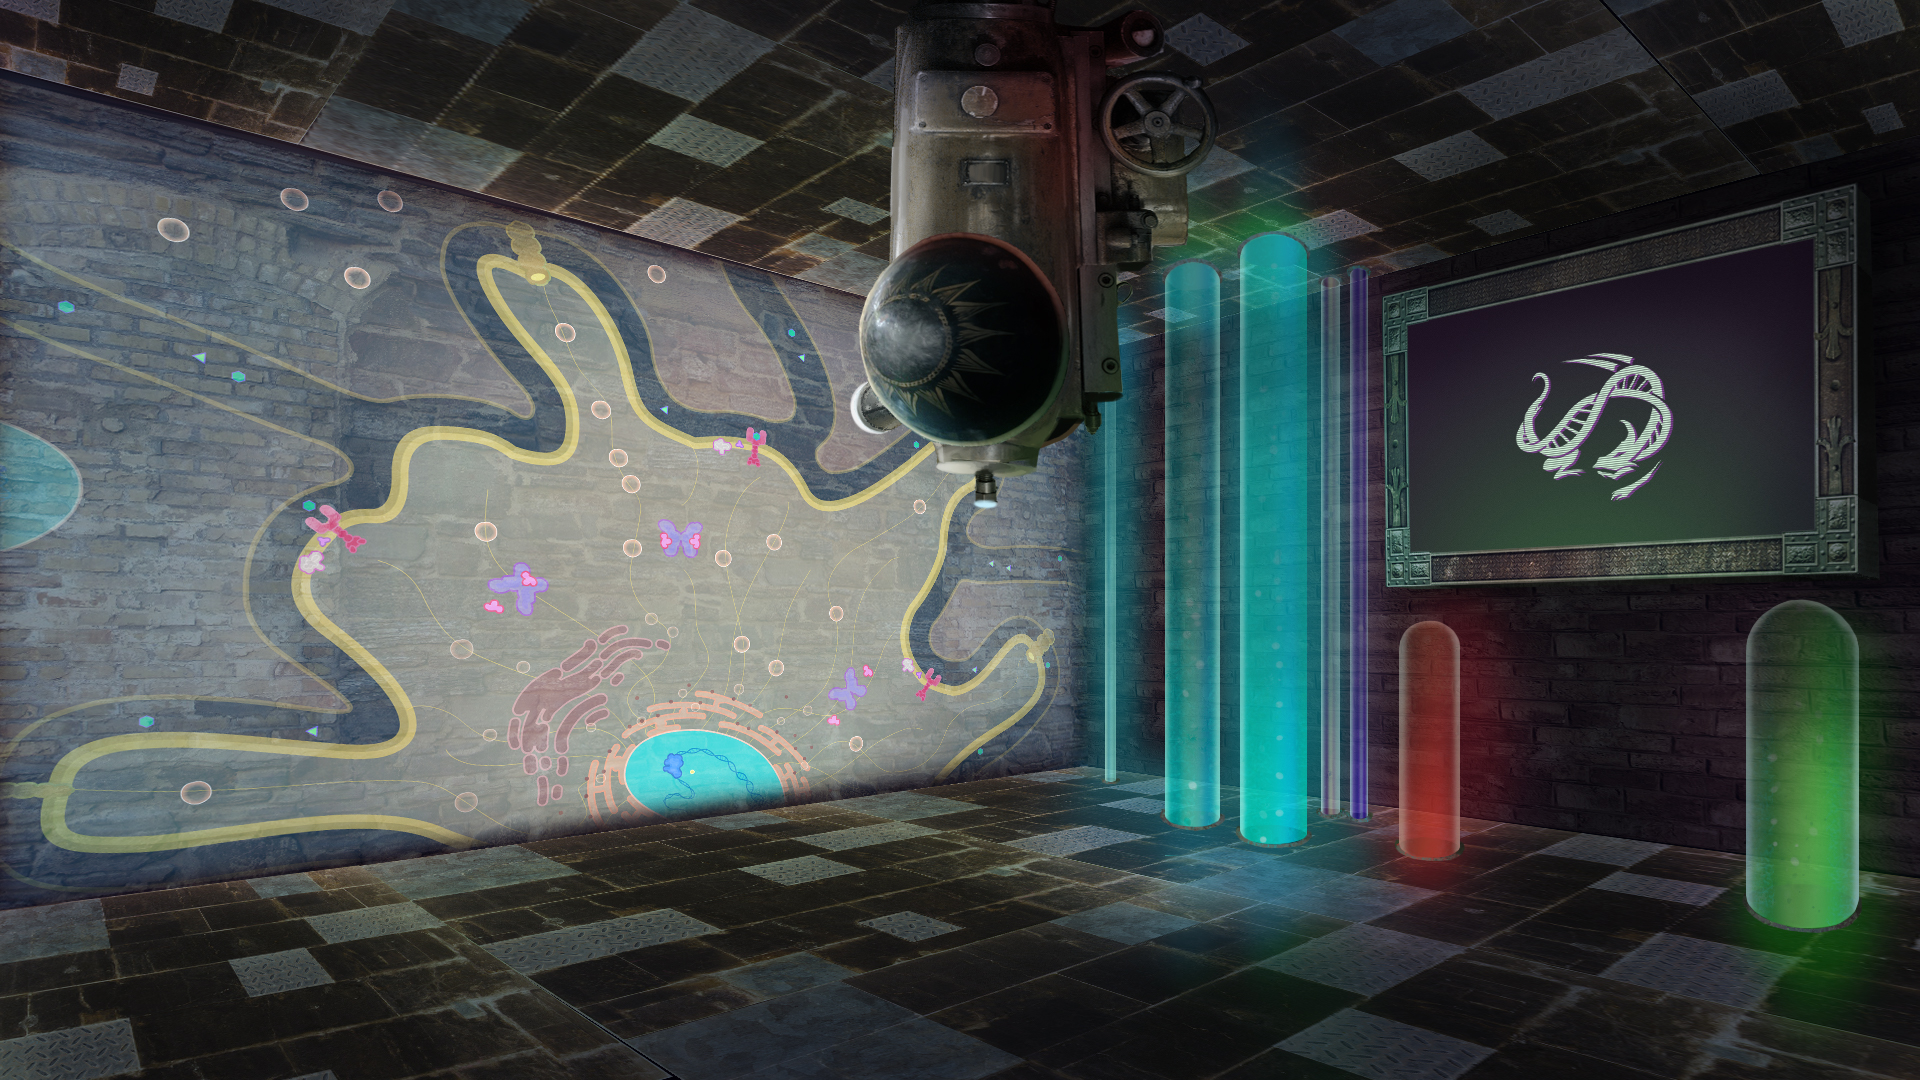
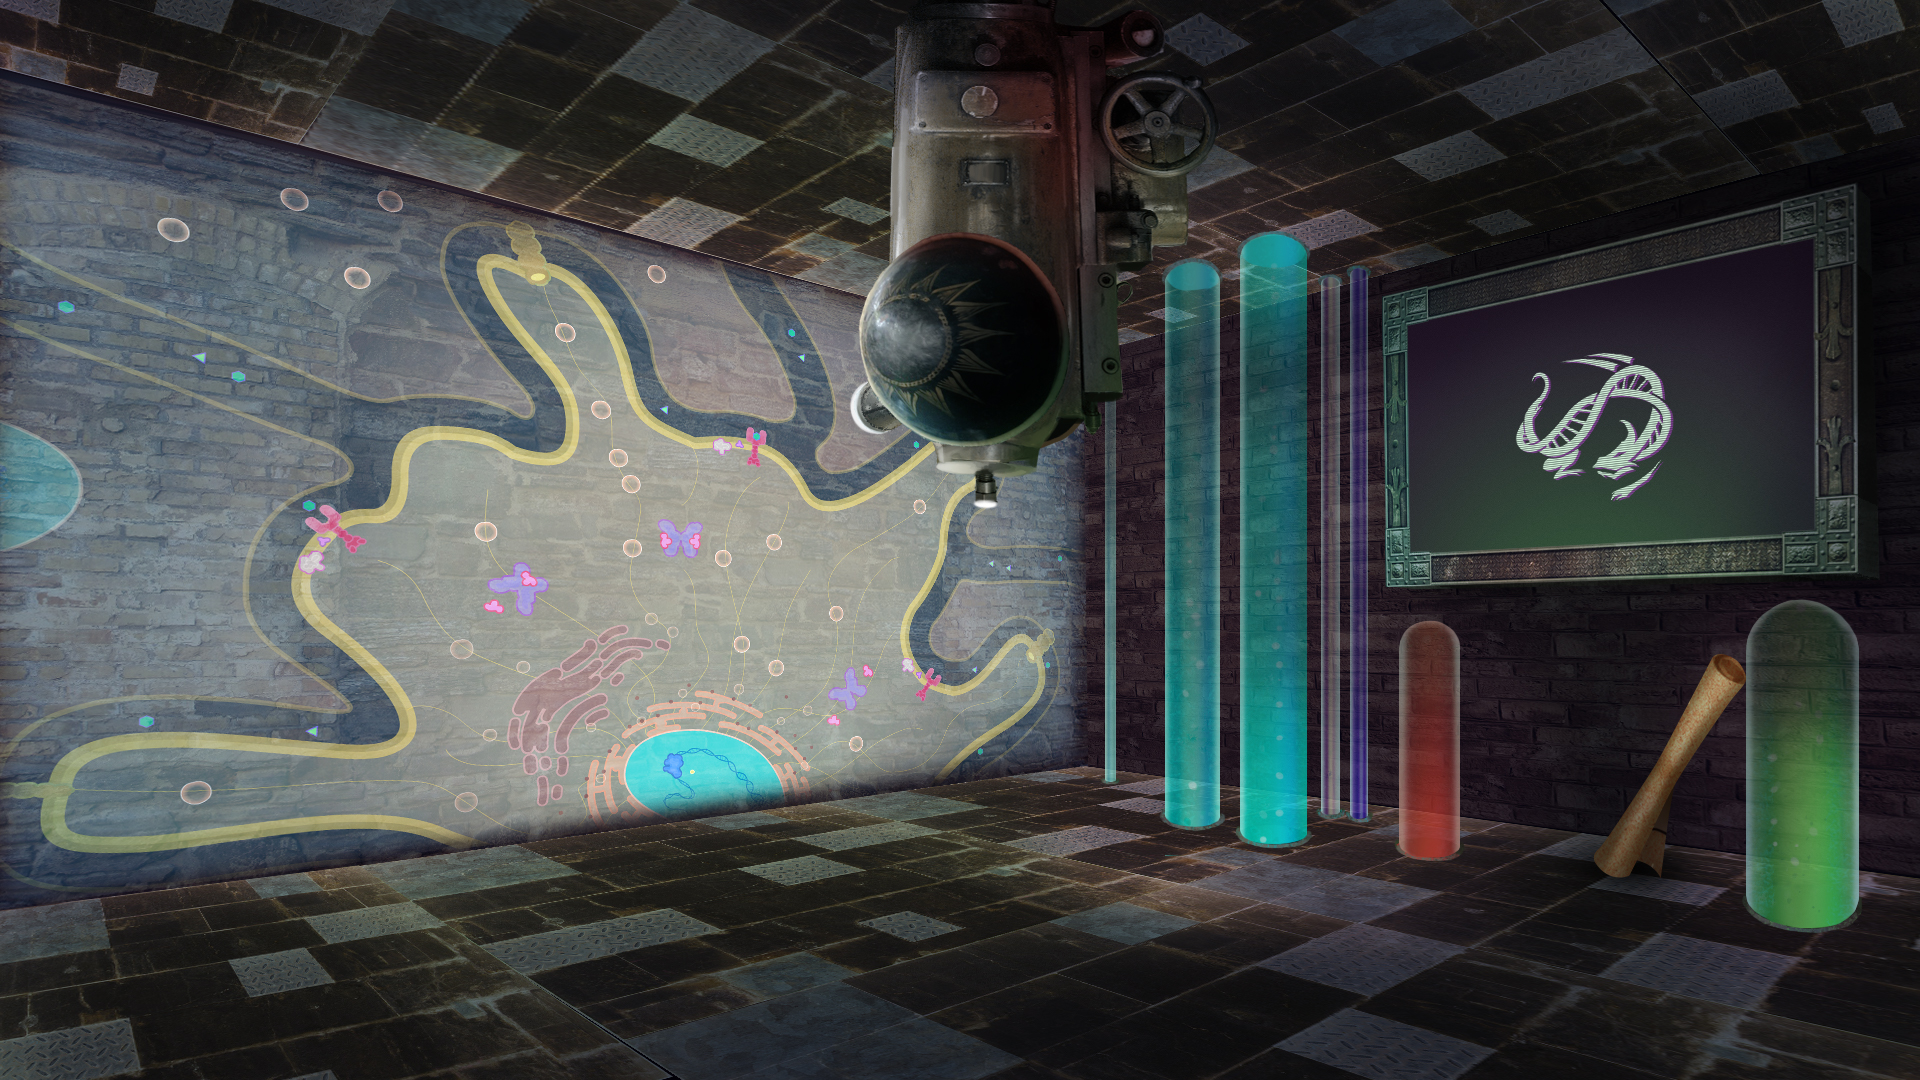
Add Easter Egg hotspots and images
This is mostly controlled through CSS, like the sprite sheets, with a
small state for handling the showing and hiding of the elements in the
FV-Challenge-Container.

[#152728935]

diff --git a/src/code/containers/fv-challenge-container.js b/src/code/containers/fv-challenge-container.js
@@ -26,7 +26,8 @@ class FVChallengeContainer extends Component {
   constructor(props) {
     super(props);
     this.state = {
-      imagesLoaded: false
+      imagesLoaded: false,
+      showingEasterEgg: false
     };
   }
 
@@ -70,7 +71,11 @@ class FVChallengeContainer extends Component {
     const { template, style, location, showingRoom, tutorials, ...otherProps } = this.props,
           { challengeType, interactionType, routeSpec, trial, numTrials, correct, challenges, showAward } = this.props;
 
+    const showEasterEgg = () => this.setState({showingEasterEgg: true});
+    const hideEasterEgg = () => this.setState({showingEasterEgg: false});
+
     let bgClasses,
+        easterEggClass,
         maxScore,
         goalMoves,
         showChallengeWidgets = false,
@@ -78,6 +83,7 @@ class FVChallengeContainer extends Component {
 
     if (showingRoom) {
       bgClasses = classNames('mission-backdrop', 'fv-layout', 'room', location.id),
+      easterEggClass = this.state.showingEasterEgg ? 'visible' : 'hidden',
 
       MainView = (
         <div>
@@ -85,7 +91,11 @@ class FVChallengeContainer extends Component {
           <div id="sprite-1" className="room-sprite" />
           <div id="sprite-2" className="room-sprite" />
           <div id="sprite-3" className="room-sprite" />
-          <div id="sprite-4" className="room-sprite" />
+          <div id="easter-egg-trigger" onClick={ showEasterEgg } />
+          <div id="easter-egg" className={easterEggClass} onClick={ hideEasterEgg }>
+            <div id="easter-egg-image"/>
+            <div id="close-easter-egg">X</div>
+          </div>
         </div>
       );
     } else {
